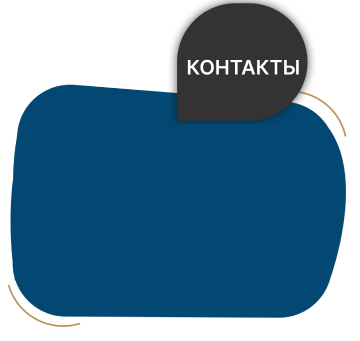
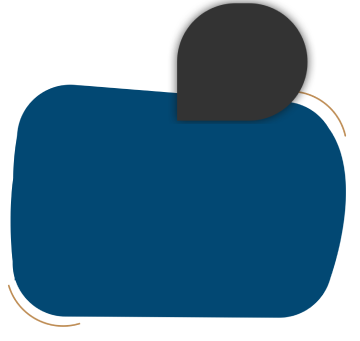
567376546754754

Changed region(s): [[0.5194, 0.176, 0.8556, 0.2346]]

diff --git a/index.html b/index.html
@@ -151,7 +151,7 @@
 							<div class="cont">
 								<div class="first_section-box">
 									<div class="info">
-										<h1 class="first_section-title">Ремонт коммерческих помещений</h1>
+										<h2 class="first_section-title">Ремонт коммерческих помещений</h2>
 										<ul>
 											<li>под ключ за <span>30</span> дней</li>
 											<li>в Москве и МО с гарантией</li>
@@ -170,7 +170,7 @@
 							<div class="cont">
 								<div class="first_section-box">
 									<div class="info">
-										<h1 class="first_section-title">Ремонт коммерческих помещений</h1>
+										<h2 class="first_section-title">Ремонт коммерческих помещений</h2>
 										<ul>
 											<li>под ключ за <span>30</span> дней</li>
 											<li>в Москве и МО с гарантией</li>
@@ -237,6 +237,9 @@
 
 
 
+			<div data-marquiz-id="6454935f83484c0025f477ef"></div>
+
+
 			<section class="repair" id="repair">
 				<div class="cont">
 					<h2 class="repair_title title">ВИДЫ РЕМОНТОВ</h2>
@@ -251,9 +254,10 @@
 										<h3 class="repair_item-title">КосметическиЙ</h3>
 										<div class="repair_item-text">Он подразумевает проведение мероприятий,
 											устранение различных технических неисправностей, небольшую перепланировку
-											при необходимости, замену облицовочных покрытий и внутренней отделки</div>
-										<a href="#" class="repair_item-link">
-											<span>ПОДРОБНЕЕ</span>
+											при необходимости, замену облицовочных покрытий и внутренней отделки
+										</div>
+										<a href="#" class="repair_item-link modal_link" data-content="#modal_callback2">
+											<span>оставить заявку</span>
 										</a>
 									</div>
 								</div>
@@ -268,9 +272,10 @@
 										<h3 class="repair_item-title">ДИЗАЙНЕРСКИЙ</h3>
 										<div class="repair_item-text">Он подразумевает проведение мероприятий,
 											устранение различных технических неисправностей, небольшую перепланировку
-											при необходимости, замену облицовочных покрытий и внутренней отделки</div>
-										<a href="#" class="repair_item-link">
-											<span>ПОДРОБНЕЕ</span>
+											при необходимости, замену облицовочных покрытий и внутренней отделки
+										</div>
+										<a href="#" class="repair_item-link modal_link" data-content="#modal_callback2">
+											<span>оставить заявку</span>
 										</a>
 									</div>
 								</div>
@@ -285,9 +290,10 @@
 										<h3 class="repair_item-title">ЕВРО</h3>
 										<div class="repair_item-text">Он подразумевает проведение мероприятий,
 											устранение различных технических неисправностей, небольшую перепланировку
-											при необходимости, замену облицовочных покрытий и внутренней отделки</div>
-										<a href="#" class="repair_item-link">
-											<span>ПОДРОБНЕЕ</span>
+											при необходимости, замену облицовочных покрытий и внутренней отделки
+										</div>
+										<a href="#" class="repair_item-link modal_link" data-content="#modal_callback2">
+											<span>оставить заявку</span>
 										</a>
 									</div>
 								</div>
@@ -299,12 +305,13 @@
 										<img data-src="images/repair1.jpg" alt="" class="swiper-lazy">
 									</div>
 									<div class="repair_item-info">
-										<div class="repair_item-title">КосметическиЙ</div>
-										<h3 class="repair_item-text">Он подразумевает проведение мероприятий,
+										<h3 class="repair_item-title">КосметическиЙ</h3>
+										<div class="repair_item-text">Он подразумевает проведение мероприятий,
 											устранение различных технических неисправностей, небольшую перепланировку
-											при необходимости, замену облицовочных покрытий и внутренней отделки</h3>
-										<a href="#" class="repair_item-link">
-											<span>ПОДРОБНЕЕ</span>
+											при необходимости, замену облицовочных покрытий и внутренней отделки
+										</div>
+										<a href="#" class="repair_item-link modal_link" data-content="#modal_callback2">
+											<span>оставить заявку</span>
 										</a>
 									</div>
 								</div>
@@ -319,9 +326,10 @@
 										<h3 class="repair_item-title">ДИЗАЙНЕРСКИЙ</h3>
 										<div class="repair_item-text">Он подразумевает проведение мероприятий,
 											устранение различных технических неисправностей, небольшую перепланировку
-											при необходимости, замену облицовочных покрытий и внутренней отделки</div>
-										<a href="#" class="repair_item-link">
-											<span>ПОДРОБНЕЕ</span>
+											при необходимости, замену облицовочных покрытий и внутренней отделки
+										</div>
+										<a href="#" class="repair_item-link modal_link" data-content="#modal_callback2">
+											<span>оставить заявку</span>
 										</a>
 									</div>
 								</div>
@@ -336,9 +344,10 @@
 										<h3 class="repair_item-title">ЕВРО</h3>
 										<div class="repair_item-text">Он подразумевает проведение мероприятий,
 											устранение различных технических неисправностей, небольшую перепланировку
-											при необходимости, замену облицовочных покрытий и внутренней отделки</div>
-										<a href="#" class="repair_item-link">
-											<span>ПОДРОБНЕЕ</span>
+											при необходимости, замену облицовочных покрытий и внутренней отделки
+										</div>
+										<a href="#" class="repair_item-link modal_link" data-content="#modal_callback2">
+											<span>оставить заявку</span>
 										</a>
 									</div>
 								</div>
@@ -676,30 +685,31 @@
 					<div id="map"></div>
 					<div class="cont">
 						<div class="contacts_items">
+							<h2 class="contacts_items_title">КОНТАКТЫ</h2>
 							<a href="tel:79663559249" class="contacts_item">
 								<div class="contacts_item-icon">
 									<img src="images/contact_icon1.svg" alt="">
 								</div>
-								<div class="contacts_item-text phone">+7 966 <span>355-92-49</span></div>
+								<div class="contacts_item-text phone">+7 966 355-92-49</div>
 							</a>
 							<div class="contacts_item">
 								<div class="contacts_item-icon">
 									<img src="images/contact_icon2.svg" alt="">
 								</div>
-								<div class="contacts_item-text">Режим работы: <span>Пн-Вс 9:00 -18:00</span></div>
+								<div class="contacts_item-text">Режим работы: Пн-Вс 9:00 -18:00</div>
 							</div>
 							<a href="mailto:pocta.revttrov@gmail.com" class="contacts_item">
 								<div class="contacts_item-icon">
 									<img src="images/contact_icon3.svg" alt="">
 								</div>
-								<div class="contacts_item-text email">Почта: <b><span>pocta.revttrov</span>@gmail.com</b> </div>
+								<div class="contacts_item-text email">Почта: <span>pocta.revttrov@gmail.com</span></div>
 							</a>
 							<div class="contacts_item">
 								<div class="contacts_item-icon">
 									<img src="images/contact_icon4.svg" alt="">
 								</div>
-								<div class="contacts_item-text">Адрес: <span>улица Дудкино5/6с4, Большая
-										Дмитровская</span> Москва</div>
+								<div class="contacts_item-text">Адрес: улица Дудкино5/6с4, Большая
+										Дмитровская Москва</div>
 							</div>
 						</div>
 					</div>
@@ -744,7 +754,7 @@
 								</a>
 							</div>
 							<div class="footer_contact">
-								<a href="tel:79663559249" class="footer_contact-phone">+7 966 <span>355-92-49</span></a>
+								<a href="tel:79663559249" class="footer_contact-phone">+7 966 355-92-49</a>
 								<a href="mailto:pocta.revttrov@gmail.com"
 									class="footer_contact-email">pocta.revttrov@gmail.com</a>
 							</div>
@@ -785,7 +795,7 @@
 					</div>
 				</div>
 				<button type="submit">
-					<span>Заказать звонок</span>
+					<span>ОСТАВИТЬ ЗАЯВКУ</span>
 				</button>
 			</form>
 		</section>
@@ -811,7 +821,7 @@
 					</div>
 				</div>
 				<button type="submit">
-					<span>Заказать звонок</span>
+					<span>ОСТАВИТЬ ЗАЯВКУ</span>
 				</button>
 			</form>
 		</section>
@@ -924,7 +934,7 @@
 			
 		</section>
 
-
+	</div>	
 
 		<!-- Подключение javascript файлов -->
 		<script src="js/jquery-3.5.0.min.js"></script>
@@ -966,6 +976,32 @@
 				})
 			})
 		</script>
+
+		<!-- Marquiz script start -->
+		<script>
+			(function(w, d, s, o){
+			var j = d.createElement(s); j.async = true; j.src = '//script.marquiz.ru/v2.js';j.onload = function() {
+				if (document.readyState !== 'loading') Marquiz.init(o);
+				else document.addEventListener("DOMContentLoaded", function() {
+				Marquiz.init(o);
+				});
+			};
+			d.head.insertBefore(j, d.head.firstElementChild);
+			})(window, document, 'script', {
+				host: '//quiz.marquiz.ru',
+				region: 'eu',
+				id: '6454935f83484c0025f477ef',
+				autoOpen: false,
+				autoOpenFreq: 'once',
+				openOnExit: false,
+				disableOnMobile: false
+			}
+			);
+		</script>
+		<!-- Marquiz script end -->
+
+
+		<script>(function(t, p) {window.Marquiz ? Marquiz.add([t, p]) : document.addEventListener('marquizLoaded', function() {Marquiz.add([t, p])})})('Inline', {id: '6454935f83484c0025f477ef', buttonText: 'Рассчитать стоимость', bgColor: '#be8d55', textColor: '#ffffff', rounded: true, shadow: 'rgba(190, 141, 85, 0.5)', blicked: true, buttonOnMobile: true})</script>
 
 </body>
 

diff --git a/css/styles.css b/css/styles.css
@@ -637,10 +637,21 @@ header .btn span {
 
 .first_section .swiper-button-next {
     right: 35px;
+    transition: all .4s;
+}
+.first_section .swiper-button-next:hover {
+    background: #BE8D55;
+    box-shadow: none;
 }
 
 .first_section .swiper-button-prev {
     left: 35px;
+    transition: all .4s;
+}
+
+.first_section .swiper-button-prev:hover {
+    background: #BE8D55;
+    box-shadow: none;
 }
 
 .swiper-button-next,
@@ -713,6 +724,12 @@ header .btn span {
     box-shadow: 0px 10px 20px rgba(23, 39, 57, 0.07);
     border-radius: 50%;
     top: 50%;
+    transition: all .4s;
+}
+.repair .swiper-button-next:hover,
+.repair .swiper-button-prev:hover {
+    background: #BE8D55;
+    box-shadow: none;
 }
 
 .repair .swiper-button-next {
@@ -824,6 +841,7 @@ header .btn span {
     margin: 0 auto;
     transition: all .4s;
     border: 2px solid transparent;
+    text-transform: uppercase;
 }
 
 .repair_item-link:hover {
@@ -1148,6 +1166,12 @@ form button:hover {
     box-shadow: 0px 10px 20px rgba(23, 39, 57, 0.07);
     border-radius: 50%;
     top: 50%;
+    transition: all .4s;
+}
+.project .swiper-button-next:hover,
+.project .swiper-button-prev:hover {
+    background: #BE8D55;
+    box-shadow: none;
 }
 
 .project .swiper-button-next {
@@ -1384,6 +1408,7 @@ footer .menu .item a:hover {
     margin-bottom: 3px;
     text-decoration: none;
     white-space: nowrap;
+    transition: all .4s;
 }
 
 .footer_contact-phone:hover {
@@ -1437,6 +1462,16 @@ footer .menu .item a:hover {
     left: 0;
     padding: 177px 124px;
 }
+.contacts_items_title {
+    font-weight: 600;
+    font-size: 26px;
+    line-height: 31px;
+    color: #FFFFFF;
+    transform: rotate(-15.4deg);
+    position: absolute;
+    top: 184px;
+    right: 50px;
+}
 
 .contacts_items a {
     text-decoration: none;
@@ -1486,12 +1521,24 @@ footer .menu .item a:hover {
     color: var(--bg);
 }
 
-.contacts_item-text.email b {
+.contacts_item-text.email {
     font-weight: 500;
+    font-size: 16px;
+    line-height: 28px;
+    color: #FFFFFF;
+    text-decoration: none;
+    transition: all .4s;
+}
+.contacts_item-text.email span {
+    font-weight: 500;
+    font-size: 16px;
+    line-height: 28px;
+    color: #FFFFFF;
+    text-decoration: none;
     transition: all .4s;
 }
 
-.contacts_item-text.email b:hover {
+.contacts_item-text.email:hover span {
     color: var(--bg);
 }
 
@@ -1751,7 +1798,7 @@ footer .menu .item a:hover {
 .modal_slider-text {
     margin-top: 27px;
     font-weight: 400;
-    font-size: var(--font_size);
+    font-size: 15px;
     line-height: 22px;
     color: rgba(0, 0, 0, 0.75);
     margin-bottom: 39px;

diff --git a/css/response_767.css b/css/response_767.css
@@ -239,6 +239,21 @@
         font-size: 14px;
         line-height: 17px;
     }
+    .contacts_items_title {
+        font-weight: 600;
+        font-size: 20px;
+        line-height: 24px;
+        color: #FFFFFF;
+        transform: rotate(0deg);
+        position: absolute;
+        top: 50px;
+        right: 60px;    
+    }
+    .contacts_item-text.email,
+    .contacts_item-text.email span {
+        font-size: 14px;
+        line-height: 17px;
+    }
 
     
 

diff --git a/css/response_1187.css b/css/response_1187.css
@@ -6,9 +6,6 @@
     .header_right {
         margin-left: auto;
     }
-    header .btn {
-        width: 170px;
-    }
     .repair .swiper-button-prev {
         left: -16px;
     }
@@ -20,6 +17,12 @@
     }
     footer .menu .item a {
         margin-right: 15px;
+    }
+    .header_logo {
+        margin-right: 10px;
+    }
+    header .btn {
+        width: 185px;
     }
 
 
